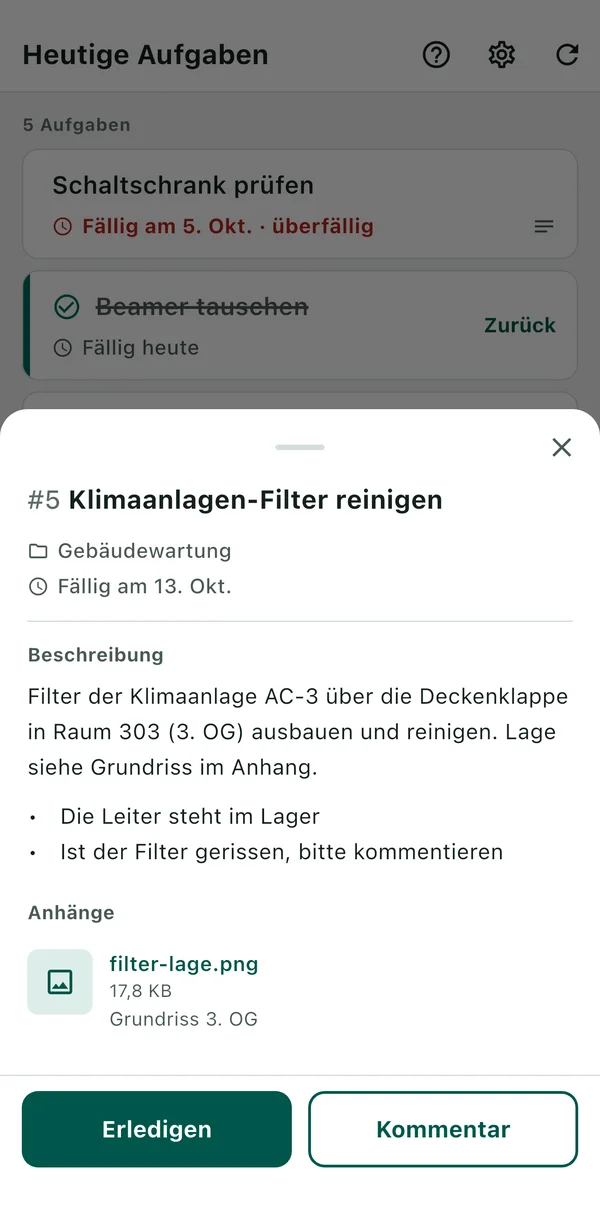
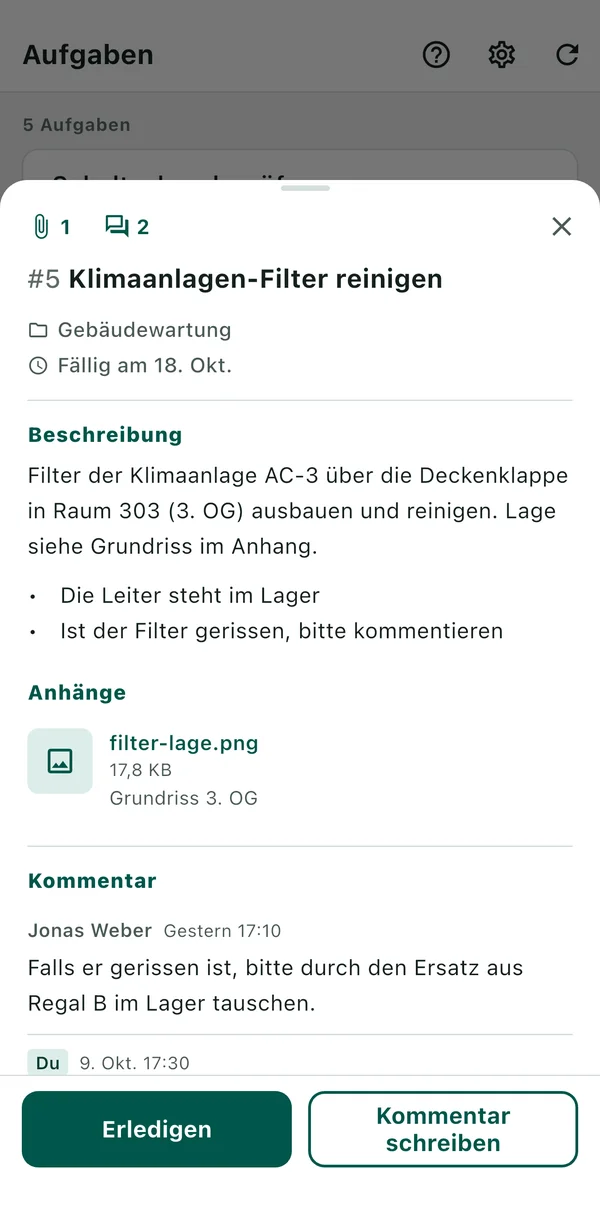
PBI-044: 1.3.0の準備（これまでのやり取りとプロジェクトの絞り込みをApp Storeへ） (#62)
* PBI-044: 1.3.0の準備（模擬・掲載文・サポート・プライバシー・繁体字の文）

* PBI-044: 03・04のスクリーンショットを6言語で撮り直し、サイトの画像と結果の記録を直す

* docs: PBI-044 のPRを記録する

* PBI-044: 模擬の確認で、審査担当者があとから書いたコメントがあっても通るようにする

* docs: PBI-044 年齢区分の答え直しと見出しの扱いの合意を記録する

---------

Changed region(s): [[0.0, 0.1244, 1.0, 0.9018], [0.63, 0.9018, 0.87, 0.964], [0.03, 0.0311, 0.45, 0.0622]]

diff --git a/fr/index.html b/fr/index.html
@@ -11,8 +11,8 @@
 <nav class="langs" aria-label="Language"><a href="../" hreflang="ja" lang="ja">日本語</a><a href="../en/" hreflang="en" lang="en">English</a><span aria-current="true" lang="fr">Français</span><a href="../de/" hreflang="de" lang="de">Deutsch</a><a href="../ko/" hreflang="ko" lang="ko">한국어</a><a href="../zh-hant/" hreflang="zh-Hant" lang="zh-Hant">繁體中文</a></nav>
 <p>Une application pour rendre compte, depuis votre iPhone et en quelques gestes, des tâches Redmine qui vous sont assignées. BeatMine n'est pas une application officielle de Redmine et n'a aucun lien avec les développeurs de Redmine.</p>
 <p><a class="button" href="https://apps.apple.com/app/id6815222410">Télécharger dans l’App Store</a></p>
-<ul class="points"><li>Seules les tâches non terminées qui vous sont assignées, à vous ou à un groupe dont vous faites partie, sont listées. Les tâches d'un groupe indiquent le nom du groupe. Les tâches en retard apparaissent en rouge.</li><li>Balayez une tâche vers la droite pour la terminer. Vous pouvez annuler aussitôt.</li><li>Touchez une tâche pour lire sa description et ses pièces jointes. Les images s'ouvrent dans l'app et peuvent être agrandies. Une icône signale les tâches qui ont une description ou des pièces jointes.</li><li>Touchez une tâche pour envoyer un commentaire. Il est conservé dans l'historique de Redmine.</li></ul>
-<div class="shots"><figure><img src="../assets/screen-01-fr.webp" width="600" height="1222" alt="La liste des tâches du jour. Les tâches en retard s&#x27;affichent en rouge."><figcaption>Tâches du jour</figcaption></figure><figure><img src="../assets/screen-02-fr.webp" width="600" height="1222" alt="L&#x27;écran qui s&#x27;ouvre quand on touche une tâche, avec sa description, ses pièces jointes et les boutons « Terminer » et « Commentaire »."><figcaption>Touchez pour voir le détail, terminer ou commenter</figcaption></figure></div>
+<ul class="points"><li>Seules les tâches non terminées qui vous sont assignées, à vous ou à un groupe dont vous faites partie, sont listées. Les tâches d'un groupe indiquent le nom du groupe. Les tâches en retard apparaissent en rouge.</li><li>Balayez une tâche vers la droite pour la terminer. Vous pouvez annuler aussitôt.</li><li>Touchez une tâche pour lire sa description et ses pièces jointes. Les images s'ouvrent dans l'app et peuvent être agrandies. Une icône signale les tâches qui ont une description ou des pièces jointes.</li><li>Touchez une tâche pour lire ses commentaires précédents, du plus récent au plus ancien. Les vôtres sont marqués « Vous ». Un point apparaît sur la ligne d'une tâche mise à jour depuis votre dernière ouverture.</li><li>« Écrire un commentaire » permet d'envoyer un commentaire tout en lisant les précédents. Il est conservé dans l'historique de Redmine.</li><li>Quand les tâches de la liste appartiennent à deux projets ou plus, l'icône « Filtrer » à côté du titre permet de filtrer la liste par projet. Les projets choisis sont conservés à la prochaine ouverture.</li></ul>
+<div class="shots"><figure><img src="../assets/screen-01-fr.webp" width="600" height="1222" alt="La liste des tâches du jour. Les tâches en retard s&#x27;affichent en rouge."><figcaption>Tâches du jour</figcaption></figure><figure><img src="../assets/screen-02-fr.webp" width="600" height="1222" alt="L&#x27;écran qui s&#x27;ouvre quand on touche une tâche, avec sa description, ses pièces jointes, les commentaires précédents et les boutons « Terminer » et « Écrire un commentaire »."><figcaption>Touchez pour voir le détail, terminer ou commenter</figcaption></figure></div>
 <nav class="toc" aria-label="Sur cette page"><a href="#need">Ce qu'il vous faut</a><a href="#start">Pour commencer</a><a href="#trouble">En cas de problème</a><a href="#faq">Autres questions fréquentes</a><a href="#unsupported">Non pris en charge</a><a href="#contact">Contact</a></nav>
 <h2 id="need">Ce qu'il vous faut</h2>
 <ul><li>Redmine 6.0, 6.1 ou 7.0.</li><li>Un accès HTTPS à ce Redmine depuis cet appareil.</li><li>L'API REST activée dans Redmine (un réglage de l'administrateur de Redmine).</li><li>Votre clé d'API. Si vous ne l'avez pas sous la main, utilisez « Obtenir la clé d'API dans Redmine » sur l'écran de connexion.</li></ul>
@@ -46,14 +46,16 @@
 <tr><td>« Impossible d'ouvrir le lien. »</td><td>Un lien de la description n'a pas pu s'ouvrir dans le navigateur de l'appareil. Le texte de la description peut être sélectionné et copié par un appui long ; collez-le dans le navigateur.</td></tr>
 </table></div>
 <p>Les messages comme « Erreur réseau » à l'ouverture d'une image ont le même sens que dans « Lors du chargement des tâches, de leur clôture ou de l'envoi d'un commentaire ». Touchez « Réessayer » pour recharger l'image.</p>
+<p>Si les commentaires précédents ne peuvent pas être chargés, « Commentaires : non chargés » s'affiche, et la section des commentaires indique la cause et « Réessayer ». Les causes sont les mêmes que dans « Lors du chargement des tâches, de leur clôture ou de l'envoi d'un commentaire ». Vous pouvez toujours terminer la tâche et envoyer des commentaires.</p>
 <h2 id="faq">Autres questions fréquentes</h2>
 <dl>
 <dt>La tâche terminée a pris un statut inattendu (par exemple « Rejeté »)</dt><dd>l'application utilise le premier statut fermé autorisé pour cette tâche, dans l'ordre des statuts de Redmine. Le statut utilisé est indiqué dans la notification. Touchez « Annuler » sur la ligne terminée (ou dans la notification) pour revenir en arrière. Ce n'est plus possible après le rechargement de la liste, ou si Redmine n'autorise pas le retour au statut précédent. Dans ce cas, rétablissez le statut dans Redmine. Si l'administrateur de Redmine change l'ordre des statuts (en plaçant « Fermé » avant « Rejeté »), un autre statut est choisi.</dd>
 <dt>Redmine m'a demandé mon mot de passe pour afficher la clé d'API (Redmine 7.0)</dt><dd>Redmine redemande le mot de passe lorsque la connexion date d'un certain temps. Saisissez-le pour afficher votre clé d'API.</dd>
+<dt>La liste montre moins de tâches que prévu</dt><dd>si le nombre de tâches indique par exemple « (2 projets sélectionnés) », la liste est filtrée par projet. Désactivez le filtre avec l'icône « Filtrer » à côté du titre. L'icône n'apparaît que lorsque les tâches de la liste appartiennent à deux projets ou plus.</dd>
 <dt>Des tâches n'apparaissent pas</dt><dd>la liste ne montre que les tâches assignées à vous ou à un groupe dont vous faites partie, non fermées et dont la date de début n'est pas dans le futur. Les tâches des projets fermés ne sont pas affichées. La liste n'est pas filtrée par échéance.</dd>
 <dt>Qui se charge d'une tâche de groupe ?</dt><dd>l'application ne le décide pas. Mettez-vous d'accord au sein du groupe, ou réassignez la tâche à une personne dans Redmine. Une tâche de groupe terminée disparaît aussi de la liste des autres membres du groupe.</dd>
 <dt>Des symboles comme « h2. » ou « * » apparaissent dans une description</dt><dd>l'application met en forme les descriptions comme du Markdown, uniquement pour les titres, listes, gras, liens et code. Les descriptions écrites en Textile, les tableaux et les images intégrées s'affichent tels quels.</dd>
-<dt>Avant de céder ou de vous séparer de votre appareil</dt><dd>« Supprimer la connexion » dans « Réglages » efface de l'appareil votre clé d'API, vos brouillons de commentaires et les traces des envois non confirmés.</dd>
+<dt>Avant de céder ou de vous séparer de votre appareil</dt><dd>« Supprimer la connexion » dans « Réglages » efface de l'appareil votre clé d'API, vos brouillons de commentaires, les traces des envois non confirmés, votre filtre par projet et la trace des tâches ouvertes.</dd>
 </dl>
 <h2 id="unsupported">Non pris en charge</h2>
 <p>Les environnements suivants peuvent fonctionner, mais n'ont pas été testés.</p>

diff --git a/index.html b/index.html
@@ -11,8 +11,8 @@
 <nav class="langs" aria-label="Language"><span aria-current="true" lang="ja">日本語</span><a href="en/" hreflang="en" lang="en">English</a><a href="fr/" hreflang="fr" lang="fr">Français</a><a href="de/" hreflang="de" lang="de">Deutsch</a><a href="ko/" hreflang="ko" lang="ko">한국어</a><a href="zh-hant/" hreflang="zh-Hant" lang="zh-Hant">繁體中文</a></nav>
 <p>自分が担当するRedmineのタスクを、iPhoneから短い操作で報告するアプリです。本アプリはRedmineの公式アプリではなく、Redmineの開発者とは関係ありません。</p>
 <p><a class="button" href="https://apps.apple.com/app/id6815222410">App Storeからダウンロード</a></p>
-<ul class="points"><li>自分か、自分が入っているグループが担当する、まだ終わっていないタスクだけが並ぶ。グループの担当には、グループ名が出る。期限を過ぎたものは赤で出る。</li><li>行を右へスワイプすると完了。すぐ取り消せる。</li><li>行をタップすると、タスクの説明と添付ファイルを読める。画像はアプリの中で開いて拡大できる。説明や添付があるタスクには、行に印が出る。</li><li>行をタップすると、コメントも送れる。内容はRedmineの履歴に残る。</li></ul>
-<div class="shots"><figure><img src="assets/screen-01.webp" width="600" height="1222" alt="今日のタスクの一覧。期限を過ぎたタスクは赤で出る"><figcaption>今日のタスク</figcaption></figure><figure><img src="assets/screen-02.webp" width="600" height="1222" alt="タスクをタップして出る画面。説明と添付ファイル、「完了」と「コメント」のボタンがある"><figcaption>タップで作業内容・完了・コメント</figcaption></figure></div>
+<ul class="points"><li>自分か、自分が入っているグループが担当する、まだ終わっていないタスクだけが並ぶ。グループの担当には、グループ名が出る。期限を過ぎたものは赤で出る。</li><li>行を右へスワイプすると完了。すぐ取り消せる。</li><li>行をタップすると、タスクの説明と添付ファイルを読める。画像はアプリの中で開いて拡大できる。説明や添付があるタスクには、行に印が出る。</li><li>行をタップすると、これまでのコメントを新しい順に読める。自分が書いたものには「自分」と出る。前に開いたあとで更新されたタスクには、行に点が出る。</li><li>「コメントを書く」で、これまでのコメントを読みながらコメントを送れる。内容はRedmineの履歴に残る。</li><li>一覧のタスクが2つ以上のプロジェクトにまたがるときは、タイトルの横の「絞り込み」のアイコンから、プロジェクトで一覧を絞り込める。選んだプロジェクトは、次に開いたときも残る。</li></ul>
+<div class="shots"><figure><img src="assets/screen-01.webp" width="600" height="1222" alt="今日のタスクの一覧。期限を過ぎたタスクは赤で出る"><figcaption>今日のタスク</figcaption></figure><figure><img src="assets/screen-02.webp" width="600" height="1222" alt="タスクをタップして出る画面。説明と添付ファイル、これまでのコメント、「完了」と「コメントを書く」のボタンがある"><figcaption>タップで作業内容・完了・コメント</figcaption></figure></div>
 <nav class="toc" aria-label="このページの内容"><a href="#need">必要なもの</a><a href="#start">使い始める</a><a href="#trouble">つまずいたとき</a><a href="#faq">よくあること</a><a href="#unsupported">対応していないもの</a><a href="#contact">お問い合わせ</a></nav>
 <h2 id="need">使い始めるために必要なもの</h2>
 <ul><li>Redmine 6.0・6.1・7.0のどれか。</li><li>そのRedmineを、この端末からHTTPSで開けること。</li><li>RedmineでREST APIが有効になっていること（Redmineの管理者の設定）。</li><li>自分のAPIキー。手元になければ、接続の画面の「APIキーをRedmineで取得」から取れる。</li></ul>
@@ -46,14 +46,16 @@
 <tr><td>「リンクを開けませんでした。」</td><td>説明の中のリンクを、端末のブラウザで開けなかった。説明の文は長押しで選んでコピーできるので、ブラウザに貼り付けて開く。</td></tr>
 </table></div>
 <p>画像を開くときの「ネットワークエラー」などは、上の「読み込み・完了・コメントのとき」と同じ。「再試行」で取り直せる。</p>
+<p>これまでのコメントを読み込めないときは、「コメント 読み込めません」と出て、コメントの欄に原因の文と「再試行」が出る。原因の文は、上の「読み込み・完了・コメントのとき」と同じ。完了とコメントの送信は、そのまま使える。</p>
 <h2 id="faq">そのほか、よくあること</h2>
 <dl>
 <dt>完了したら、意図しない状態（「却下」など）になった</dt><dd>そのタスクで変更できる終了扱いの状態のうち、Redmineの状態の並び順で最初のものを使います。どの状態にしたかは、完了の通知に出ます。完了した行の「戻す」（または完了の通知の「取り消す」）で元に戻せます。ただし、一覧を再読み込みした後や、Redmineで元の状態へ戻す変更が許されていないときは取り消せません。そのときは、Redmineの画面から戻してください。Redmineの管理者が状態の並び順を変える（「完了」を「却下」より上にする）と、選ばれる状態が変わります。</dd>
 <dt>APIキーを取るときにパスワードを聞かれた（Redmine 7.0）</dt><dd>ログインしてから時間がたつと、Redmineがパスワードの再入力を求めます。入力すればAPIキーが表示されます。</dd>
+<dt>一覧のタスクが少ない</dt><dd>件数の行に「（2プロジェクト選択中）」のように出ていれば、プロジェクトで絞り込んでいます。タイトルの横の「絞り込み」のアイコンから外せます。アイコンは、一覧のタスクが2つ以上のプロジェクトにまたがるときだけ出ます。</dd>
 <dt>一覧に出ないタスクがある</dt><dd>自分か、自分が入っているグループが担当で、まだ完了しておらず、開始日が未来でないタスクだけを出しています。終了したプロジェクトのタスクも出しません。期限では絞っていません。</dd>
 <dt>グループのタスクを誰がやるか</dt><dd>アプリでは決めません。グループの中で声をかけるか、Redmineで担当を個人に付け替えてください。グループのタスクを完了すると、同じグループのほかの人の一覧からも消えます。</dd>
 <dt>説明に「h2.」「*」などの記号が出る</dt><dd>アプリは説明をMarkdownとして、見出し・箇条書き・太字・リンク・コードだけを整えます。Textileで書く組織のRedmineや、表・埋め込みの画像は、記号のまま出ます。</dd>
-<dt>端末を手放すとき</dt><dd>設定の「接続を削除」で、APIキー・コメントの下書き・未確認の送信の記録が端末から消えます。</dd>
+<dt>端末を手放すとき</dt><dd>設定の「接続を削除」で、APIキー・コメントの下書き・未確認の送信の記録・プロジェクトの絞り込み・開いたタスクの記録が端末から消えます。</dd>
 </dl>
 <h2 id="unsupported">対応していないもの</h2>
 <p>次の環境は、動くことはあっても確かめていません。</p>

diff --git a/ko/index.html b/ko/index.html
@@ -11,8 +11,8 @@
 <nav class="langs" aria-label="Language"><a href="../" hreflang="ja" lang="ja">日本語</a><a href="../en/" hreflang="en" lang="en">English</a><a href="../fr/" hreflang="fr" lang="fr">Français</a><a href="../de/" hreflang="de" lang="de">Deutsch</a><span aria-current="true" lang="ko">한국어</span><a href="../zh-hant/" hreflang="zh-Hant" lang="zh-Hant">繁體中文</a></nav>
 <p>내게 배정된 Redmine 작업을 iPhone에서 간단한 조작으로 보고하는 앱입니다. BeatMine은 Redmine 공식 앱이 아니며, Redmine 개발자와 관련이 없습니다.</p>
 <p><a class="button" href="https://apps.apple.com/app/id6815222410">App Store에서 다운로드하기</a></p>
-<ul class="points"><li>나 또는 내가 속한 그룹이 담당하는, 아직 끝나지 않은 작업만 표시됩니다. 그룹 담당 작업에는 그룹 이름이 표시됩니다. 기한이 지난 작업은 빨간색으로 표시됩니다.</li><li>작업을 오른쪽으로 밀면 완료됩니다. 바로 되돌릴 수 있습니다.</li><li>작업을 탭하면 작업의 설명과 첨부 파일을 읽을 수 있습니다. 이미지는 앱에서 열어 확대할 수 있습니다. 설명이나 첨부가 있는 작업에는 줄에 표시가 나옵니다.</li><li>작업을 탭하면 댓글도 보낼 수 있습니다. 내용은 Redmine 이력에 남습니다.</li></ul>
-<div class="shots"><figure><img src="../assets/screen-01-ko.webp" width="600" height="1222" alt="오늘의 작업 목록. 기한이 지난 작업은 빨간색으로 표시됩니다."><figcaption>오늘의 작업</figcaption></figure><figure><img src="../assets/screen-02-ko.webp" width="600" height="1222" alt="작업을 탭하면 나타나는 화면. 설명과 첨부 파일, ‘완료’와 ‘댓글’ 버튼이 있습니다."><figcaption>탭하여 내용 확인·완료·댓글</figcaption></figure></div>
+<ul class="points"><li>나 또는 내가 속한 그룹이 담당하는, 아직 끝나지 않은 작업만 표시됩니다. 그룹 담당 작업에는 그룹 이름이 표시됩니다. 기한이 지난 작업은 빨간색으로 표시됩니다.</li><li>작업을 오른쪽으로 밀면 완료됩니다. 바로 되돌릴 수 있습니다.</li><li>작업을 탭하면 작업의 설명과 첨부 파일을 읽을 수 있습니다. 이미지는 앱에서 열어 확대할 수 있습니다. 설명이나 첨부가 있는 작업에는 줄에 표시가 나옵니다.</li><li>작업을 탭하면 지금까지의 댓글을 최신순으로 읽을 수 있습니다. 내가 쓴 댓글에는 ‘나’라고 표시됩니다. 지난번에 연 뒤 업데이트된 작업에는 줄에 점이 표시됩니다.</li><li>‘댓글 쓰기’로 이전 댓글을 읽으면서 댓글을 보낼 수 있습니다. 내용은 Redmine 이력에 남습니다.</li><li>목록의 작업이 두 개 이상의 프로젝트에 걸쳐 있으면, 제목 옆의 ‘필터’ 아이콘으로 프로젝트별로 목록을 필터링할 수 있습니다. 선택한 프로젝트는 다음에 열 때도 유지됩니다.</li></ul>
+<div class="shots"><figure><img src="../assets/screen-01-ko.webp" width="600" height="1222" alt="오늘의 작업 목록. 기한이 지난 작업은 빨간색으로 표시됩니다."><figcaption>오늘의 작업</figcaption></figure><figure><img src="../assets/screen-02-ko.webp" width="600" height="1222" alt="작업을 탭하면 나타나는 화면. 설명과 첨부 파일, 지금까지의 댓글, ‘완료’와 ‘댓글 쓰기’ 버튼이 있습니다."><figcaption>탭하여 내용 확인·완료·댓글</figcaption></figure></div>
 <nav class="toc" aria-label="이 페이지의 내용"><a href="#need">필요한 것</a><a href="#start">시작하기</a><a href="#trouble">문제가 생겼을 때</a><a href="#faq">그 밖의 자주 묻는 질문</a><a href="#unsupported">지원하지 않는 것</a><a href="#contact">문의</a></nav>
 <h2 id="need">필요한 것</h2>
 <ul><li>Redmine 6.0·6.1·7.0 중 하나.</li><li>이 기기에서 해당 Redmine을 HTTPS로 열 수 있을 것.</li><li>Redmine에서 REST API가 활성화되어 있을 것(Redmine 관리자의 설정).</li><li>내 API 키. 없으면 연결 화면의 ‘Redmine에서 API 키 받기’에서 받을 수 있습니다.</li></ul>
@@ -46,14 +46,16 @@
 <tr><td>‘링크를 열 수 없습니다.’</td><td>설명 속 링크를 기기의 브라우저에서 열지 못했습니다. 설명의 글은 길게 눌러 선택하고 복사할 수 있으니, 브라우저에 붙여 넣어 여세요.</td></tr>
 </table></div>
 <p>이미지를 열 때의 ‘네트워크 오류’ 등은 위의 ‘불러오기·완료·댓글을 할 때’와 같습니다. ‘다시 시도’로 다시 불러올 수 있습니다.</p>
+<p>이전 댓글을 불러오지 못하면 ‘댓글: 불러오지 못함’이 표시되고, 댓글 영역에 원인 문구와 ‘다시 시도’가 나옵니다. 원인 문구는 위의 ‘불러오기·완료·댓글을 할 때’와 같습니다. 완료와 댓글 보내기는 그대로 사용할 수 있습니다.</p>
 <h2 id="faq">그 밖의 자주 묻는 질문</h2>
 <dl>
 <dt>완료했더니 의도하지 않은 상태(‘거절’ 등)가 되었다</dt><dd>그 작업에서 변경할 수 있는 종료 상태 중, Redmine의 상태 순서에서 첫 번째 것을 사용합니다. 어떤 상태로 했는지는 완료 알림에 표시됩니다. 완료한 줄의 ‘되돌리기’(또는 완료 알림의 ‘취소’)로 되돌릴 수 있습니다. 다만 목록을 새로고침한 뒤나, Redmine에서 원래 상태로 되돌리는 변경이 허용되지 않을 때는 되돌릴 수 없습니다. 그때는 Redmine 화면에서 되돌리세요. Redmine 관리자가 상태 순서를 바꾸면(‘완료’를 ‘거절’보다 위로) 선택되는 상태가 바뀝니다.</dd>
 <dt>API 키를 받을 때 비밀번호 입력을 요구받았다(Redmine 7.0)</dt><dd>로그인 후 시간이 지나면 Redmine이 비밀번호 재입력을 요청합니다. 입력하면 API 키가 표시됩니다.</dd>
+<dt>목록의 작업이 예상보다 적다</dt><dd>건수 줄에 ‘(2개 프로젝트 선택됨)’처럼 나오면 프로젝트로 필터링 중입니다. 제목 옆의 ‘필터’ 아이콘에서 해제할 수 있습니다. 아이콘은 목록의 작업이 두 개 이상의 프로젝트에 걸쳐 있을 때만 나옵니다.</dd>
 <dt>목록에 나오지 않는 작업이 있다</dt><dd>나 또는 내가 속한 그룹에 할당되어 있고, 아직 완료되지 않았으며, 시작일이 미래가 아닌 작업만 표시합니다. 종료된 프로젝트의 작업도 표시하지 않습니다. 기한으로는 거르지 않습니다.</dd>
 <dt>그룹의 작업은 누가 하나요</dt><dd>앱에서는 정하지 않습니다. 그룹 안에서 이야기하거나, Redmine에서 담당자를 개인으로 바꾸세요. 그룹의 작업을 완료하면 같은 그룹의 다른 사람 목록에서도 사라집니다.</dd>
 <dt>설명에 ‘h2.’, ‘*’ 같은 기호가 나온다</dt><dd>앱은 설명을 Markdown으로 보고, 제목·목록·굵은 글씨·링크·코드만 정리합니다. Textile로 쓰는 조직의 Redmine이나 표·삽입된 이미지는 기호 그대로 나옵니다.</dd>
-<dt>기기를 다른 사람에게 넘기거나 처분할 때</dt><dd>‘설정’의 ‘연결 삭제’로 API 키·댓글 임시 저장본·확인되지 않은 전송 기록이 기기에서 삭제됩니다.</dd>
+<dt>기기를 다른 사람에게 넘기거나 처분할 때</dt><dd>‘설정’의 ‘연결 삭제’로 API 키·댓글 임시 저장본·확인되지 않은 전송 기록·프로젝트 필터·연 작업의 기록이 기기에서 삭제됩니다.</dd>
 </dl>
 <h2 id="unsupported">지원하지 않는 것</h2>
 <p>다음 환경은 동작할 수도 있지만 확인하지 않았습니다.</p>

diff --git a/de/index.html b/de/index.html
@@ -11,8 +11,8 @@
 <nav class="langs" aria-label="Language"><a href="../" hreflang="ja" lang="ja">日本語</a><a href="../en/" hreflang="en" lang="en">English</a><a href="../fr/" hreflang="fr" lang="fr">Français</a><span aria-current="true" lang="de">Deutsch</span><a href="../ko/" hreflang="ko" lang="ko">한국어</a><a href="../zh-hant/" hreflang="zh-Hant" lang="zh-Hant">繁體中文</a></nav>
 <p>Eine App, mit der Sie die Ihnen zugewiesenen Redmine-Aufgaben mit wenigen Handgriffen vom iPhone aus melden. BeatMine ist keine offizielle Redmine-App und steht in keiner Verbindung zu den Redmine-Entwicklern.</p>
 <p><a class="button" href="https://apps.apple.com/app/id6815222410">Laden im App Store</a></p>
-<ul class="points"><li>Es werden nur offene Aufgaben angezeigt, die Ihnen oder einer Ihrer Gruppen zugewiesen sind. Bei Gruppenaufgaben steht der Gruppenname dabei. Überfällige Aufgaben erscheinen rot.</li><li>Wischen Sie eine Aufgabe nach rechts, um sie zu erledigen. Sie können das sofort rückgängig machen.</li><li>Tippen Sie auf eine Aufgabe, um Beschreibung und Anhänge zu lesen. Bilder öffnen sich in der App und lassen sich vergrößern. Aufgaben mit Beschreibung oder Anhängen tragen ein Symbol in der Zeile.</li><li>Tippen Sie auf eine Aufgabe, um einen Kommentar zu senden. Er wird in der Redmine-Historie gespeichert.</li></ul>
-<div class="shots"><figure><img src="../assets/screen-01-de.webp" width="600" height="1222" alt="Die Liste der heutigen Aufgaben. Überfällige Aufgaben werden rot angezeigt."><figcaption>Heutige Aufgaben</figcaption></figure><figure><img src="../assets/screen-02-de.webp" width="600" height="1222" alt="Der Bildschirm, der sich beim Antippen einer Aufgabe öffnet, mit Beschreibung, Anhängen und den Schaltflächen „Erledigen“ und „Kommentar“."><figcaption>Antippen für Details, Erledigen oder Kommentieren</figcaption></figure></div>
+<ul class="points"><li>Es werden nur offene Aufgaben angezeigt, die Ihnen oder einer Ihrer Gruppen zugewiesen sind. Bei Gruppenaufgaben steht der Gruppenname dabei. Überfällige Aufgaben erscheinen rot.</li><li>Wischen Sie eine Aufgabe nach rechts, um sie zu erledigen. Sie können das sofort rückgängig machen.</li><li>Tippen Sie auf eine Aufgabe, um Beschreibung und Anhänge zu lesen. Bilder öffnen sich in der App und lassen sich vergrößern. Aufgaben mit Beschreibung oder Anhängen tragen ein Symbol in der Zeile.</li><li>Tippen Sie auf eine Aufgabe, um ihre früheren Kommentare zu lesen, die neuesten zuerst. Ihre eigenen sind mit „Du“ gekennzeichnet. Ein Punkt erscheint in der Zeile einer Aufgabe, die seit dem letzten Öffnen aktualisiert wurde.</li><li>Mit „Kommentar schreiben“ senden Sie einen Kommentar, während Sie die früheren lesen. Er wird in der Redmine-Historie gespeichert.</li><li>Gehören die Aufgaben der Liste zu zwei oder mehr Projekten, können Sie die Liste über das Symbol „Filtern“ neben dem Titel nach Projekt filtern. Die gewählten Projekte bleiben beim nächsten Öffnen erhalten.</li></ul>
+<div class="shots"><figure><img src="../assets/screen-01-de.webp" width="600" height="1222" alt="Die Liste der heutigen Aufgaben. Überfällige Aufgaben werden rot angezeigt."><figcaption>Heutige Aufgaben</figcaption></figure><figure><img src="../assets/screen-02-de.webp" width="600" height="1222" alt="Der Bildschirm, der sich beim Antippen einer Aufgabe öffnet, mit Beschreibung, Anhängen, früheren Kommentaren und den Schaltflächen „Erledigen“ und „Kommentar schreiben“."><figcaption>Antippen für Details, Erledigen oder Kommentieren</figcaption></figure></div>
 <nav class="toc" aria-label="Auf dieser Seite"><a href="#need">Was Sie brauchen</a><a href="#start">Erste Schritte</a><a href="#trouble">Wenn etwas nicht klappt</a><a href="#faq">Weitere häufige Fragen</a><a href="#unsupported">Nicht unterstützt</a><a href="#contact">Kontakt</a></nav>
 <h2 id="need">Was Sie brauchen</h2>
 <ul><li>Redmine 6.0, 6.1 oder 7.0.</li><li>HTTPS-Zugriff auf dieses Redmine von diesem Gerät aus.</li><li>Eine in Redmine aktivierte REST-API (eine Einstellung Ihres Redmine-Administrators).</li><li>Ihr API-Schlüssel. Falls Sie ihn nicht zur Hand haben, nutzen Sie „API-Schlüssel in Redmine abrufen“ auf dem Verbindungsbildschirm.</li></ul>
@@ -46,14 +46,16 @@
 <tr><td>„Der Link konnte nicht geöffnet werden.“</td><td>Ein Link in der Beschreibung ließ sich im Browser des Geräts nicht öffnen. Den Text der Beschreibung können Sie lange drücken, markieren und kopieren und dann im Browser einfügen.</td></tr>
 </table></div>
 <p>Meldungen wie „Netzwerkfehler“ beim Öffnen eines Bildes bedeuten dasselbe wie unter „Beim Laden, Erledigen oder Kommentieren“. Mit „Erneut versuchen“ wird das Bild neu geladen.</p>
+<p>Lassen sich frühere Kommentare nicht laden, erscheint „Kommentare: nicht geladen“, und im Kommentarbereich stehen der Grund und „Erneut versuchen“. Die Gründe sind dieselben wie unter „Beim Laden, Erledigen oder Kommentieren“. Erledigen und Kommentieren funktionieren weiterhin.</p>
 <h2 id="faq">Weitere häufige Fragen</h2>
 <dl>
 <dt>Beim Erledigen wurde ein unerwarteter Status gesetzt (z. B. „Abgewiesen“)</dt><dd>Die App verwendet den ersten geschlossenen Status, den Sie für diese Aufgabe setzen dürfen, in der Statusreihenfolge von Redmine. Der verwendete Status steht in der Benachrichtigung. Mit „Zurück“ in der erledigten Zeile (oder „Rückgängig“ in der Benachrichtigung) machen Sie das rückgängig. Nach dem Neuladen der Liste oder wenn Redmine das Zurücksetzen des Status nicht erlaubt, ist das nicht mehr möglich. Setzen Sie den Status dann in Redmine zurück. Ändert Ihr Redmine-Administrator die Statusreihenfolge („Erledigt“ vor „Abgewiesen“), wird ein anderer Status gewählt.</dd>
 <dt>Beim Abrufen des API-Schlüssels wurde mein Passwort abgefragt (Redmine 7.0)</dt><dd>Redmine fragt einige Zeit nach der Anmeldung erneut nach dem Passwort. Geben Sie es ein, um den API-Schlüssel zu sehen.</dd>
+<dt>Die Liste zeigt weniger Aufgaben als erwartet</dt><dd>Steht bei der Anzahl etwa „(2 Projekte ausgewählt)“, ist die Liste nach Projekt gefiltert. Schalten Sie den Filter über das Symbol „Filtern“ neben dem Titel aus. Das Symbol erscheint nur, wenn die Aufgaben der Liste zu zwei oder mehr Projekten gehören.</dd>
 <dt>Manche Aufgaben fehlen in der Liste</dt><dd>Angezeigt werden nur Aufgaben, die Ihnen oder einer Ihrer Gruppen zugewiesen und nicht geschlossen sind und deren Startdatum nicht in der Zukunft liegt. Aufgaben abgeschlossener Projekte werden nicht angezeigt. Nach Fälligkeit wird nicht gefiltert.</dd>
 <dt>Wer erledigt eine Gruppenaufgabe?</dt><dd>Das entscheidet die App nicht. Sprechen Sie sich in der Gruppe ab oder weisen Sie die Aufgabe in Redmine einer Person zu. Wird eine Gruppenaufgabe erledigt, verschwindet sie auch aus der Liste der anderen Gruppenmitglieder.</dd>
 <dt>In einer Beschreibung erscheinen Zeichen wie „h2.“ oder „*“</dt><dd>Die App formatiert Beschreibungen als Markdown, und zwar nur Überschriften, Listen, Fettdruck, Links und Code. In Textile geschriebene Beschreibungen, Tabellen und eingebettete Bilder werden als reiner Text angezeigt.</dd>
-<dt>Bevor Sie Ihr Gerät weitergeben</dt><dd>„Verbindung löschen“ unter „Einstellungen“ löscht API-Schlüssel, Kommentarentwürfe und Aufzeichnungen unbestätigter Vorgänge vom Gerät.</dd>
+<dt>Bevor Sie Ihr Gerät weitergeben</dt><dd>„Verbindung löschen“ unter „Einstellungen“ löscht API-Schlüssel, Kommentarentwürfe, Aufzeichnungen unbestätigter Vorgänge, den Projektfilter und die Aufzeichnung geöffneter Aufgaben vom Gerät.</dd>
 </dl>
 <h2 id="unsupported">Nicht unterstützt</h2>
 <p>Folgendes kann funktionieren, wurde aber nicht getestet.</p>

diff --git a/en/index.html b/en/index.html
@@ -11,8 +11,8 @@
 <nav class="langs" aria-label="Language"><a href="../" hreflang="ja" lang="ja">日本語</a><span aria-current="true" lang="en">English</span><a href="../fr/" hreflang="fr" lang="fr">Français</a><a href="../de/" hreflang="de" lang="de">Deutsch</a><a href="../ko/" hreflang="ko" lang="ko">한국어</a><a href="../zh-hant/" hreflang="zh-Hant" lang="zh-Hant">繁體中文</a></nav>
 <p>An app for reporting on the Redmine tasks assigned to you from your iPhone, in just a few taps. BeatMine is not an official Redmine app and is not affiliated with the Redmine developers.</p>
 <p><a class="button" href="https://apps.apple.com/app/id6815222410">Download on the App Store</a></p>
-<ul class="points"><li>Only unfinished tasks assigned to you, or to a group you belong to, are listed. Tasks assigned to a group show the group name. Overdue tasks are shown in red.</li><li>Swipe a task right to complete it. You can undo it right away.</li><li>Tap a task to read its description and attachments. Images open in the app and can be zoomed. Tasks with a description or attachments show an icon on their row.</li><li>Tap a task to send a comment. It is saved in the Redmine history.</li></ul>
-<div class="shots"><figure><img src="../assets/screen-01-en.webp" width="600" height="1222" alt="The list of today&#x27;s tasks. Overdue tasks are shown in red."><figcaption>Today's tasks</figcaption></figure><figure><img src="../assets/screen-02-en.webp" width="600" height="1222" alt="The screen that opens when you tap a task, with its description and attachments, and “Complete” and “Comment” buttons."><figcaption>Tap to see details, complete or comment</figcaption></figure></div>
+<ul class="points"><li>Only unfinished tasks assigned to you, or to a group you belong to, are listed. Tasks assigned to a group show the group name. Overdue tasks are shown in red.</li><li>Swipe a task right to complete it. You can undo it right away.</li><li>Tap a task to read its description and attachments. Images open in the app and can be zoomed. Tasks with a description or attachments show an icon on their row.</li><li>Tap a task to read its earlier comments, newest first. Comments you wrote are shown as “You”. A dot appears on the row of a task that was updated since you last opened it.</li><li>“Write comment” lets you send a comment while reading the earlier ones. It is saved in the Redmine history.</li><li>When the listed tasks belong to two or more projects, the “Filter” icon next to the title lets you filter the list by project. The projects you choose are kept the next time you open the app.</li></ul>
+<div class="shots"><figure><img src="../assets/screen-01-en.webp" width="600" height="1222" alt="The list of today&#x27;s tasks. Overdue tasks are shown in red."><figcaption>Today's tasks</figcaption></figure><figure><img src="../assets/screen-02-en.webp" width="600" height="1222" alt="The screen that opens when you tap a task, with its description, attachments and earlier comments, and “Complete” and “Write comment” buttons."><figcaption>Tap to see details, complete or comment</figcaption></figure></div>
 <nav class="toc" aria-label="On this page"><a href="#need">What you need</a><a href="#start">Getting started</a><a href="#trouble">If something goes wrong</a><a href="#faq">Other common questions</a><a href="#unsupported">Not supported</a><a href="#contact">Contact</a></nav>
 <h2 id="need">What you need</h2>
 <ul><li>Redmine 6.0, 6.1 or 7.0.</li><li>You can open that Redmine over HTTPS from this device.</li><li>The REST API is enabled in Redmine (a setting for your Redmine administrator).</li><li>Your API key. If you don't have it at hand, use “Get the API key in Redmine” on the connection screen.</li></ul>
@@ -46,14 +46,16 @@
 <tr><td>“Couldn't open the link.”</td><td>A link in the description couldn't be opened in the device's browser. You can select and copy the description text with a long press, then paste it into the browser.</td></tr>
 </table></div>
 <p>Messages such as “Network error” when opening an image mean the same as under “When loading, completing or commenting”. Tap “Try again” to load it again.</p>
+<p>If earlier comments can't be loaded, “Comments: couldn't load” appears, and the comments section shows the reason and “Try again”. The reasons are the same as under “When loading, completing or commenting”. You can still complete the task and send comments.</p>
 <h2 id="faq">Other common questions</h2>
 <dl>
 <dt>A completed task got an unexpected status (such as “Rejected”)</dt><dd>The app uses the first closed status you're allowed to set for that task, in Redmine's status order. The status used is shown in the completion notice. Tap “Undo” on the completed task (or in the notice) to revert it. You can't undo after reloading the list, or if Redmine doesn't allow changing the status back. In that case, change it back in Redmine. If your Redmine administrator changes the status order (putting “Closed” above “Rejected”), a different status is chosen.</dd>
 <dt>I was asked for my password when getting the API key (Redmine 7.0)</dt><dd>Redmine asks for your password again some time after you sign in. Enter it to see your API key.</dd>
+<dt>The list shows fewer tasks than expected</dt><dd>If the task count says something like “(2 projects selected)”, the list is filtered by project. Turn it off with the “Filter” icon next to the title. The icon appears only when the listed tasks belong to two or more projects.</dd>
 <dt>Some tasks are missing from the list</dt><dd>The list shows only tasks assigned to you, or to a group you belong to, that are not closed and whose start date is not in the future. Tasks in closed projects are not shown. The list is not filtered by due date.</dd>
 <dt>Who does a group's task?</dt><dd>The app doesn't decide. Talk it over within the group, or reassign the task to a person in Redmine. When a group's task is completed, it also disappears from the lists of the other people in the group.</dd>
 <dt>Symbols such as “h2.” or “*” appear in a description</dt><dd>The app formats descriptions as Markdown, handling only headings, lists, bold text, links and code. Descriptions written in Textile, tables and embedded images are shown as plain text.</dd>
-<dt>Before passing on or disposing of your device</dt><dd>“Delete connection” in “Settings” removes your API key, comment drafts and records of unconfirmed updates from the device.</dd>
+<dt>Before passing on or disposing of your device</dt><dd>“Delete connection” in “Settings” removes your API key, comment drafts, records of unconfirmed updates, your project filter and the record of tasks you opened from the device.</dd>
 </dl>
 <h2 id="unsupported">Not supported</h2>
 <p>The following may work, but have not been tested.</p>

diff --git a/zh-hant/index.html b/zh-hant/index.html
@@ -11,8 +11,8 @@
 <nav class="langs" aria-label="Language"><a href="../" hreflang="ja" lang="ja">日本語</a><a href="../en/" hreflang="en" lang="en">English</a><a href="../fr/" hreflang="fr" lang="fr">Français</a><a href="../de/" hreflang="de" lang="de">Deutsch</a><a href="../ko/" hreflang="ko" lang="ko">한국어</a><span aria-current="true" lang="zh-Hant">繁體中文</span></nav>
 <p>讓你在 iPhone 上用簡單的操作回報指派給自己的 Redmine 任務的 App。BeatMine 並非 Redmine 官方 App，與 Redmine 開發者無關。</p>
 <p><a class="button" href="https://apps.apple.com/app/id6815222410">在 App Store 下載</a></p>
-<ul class="points"><li>只列出由自己或自己所屬群組負責、尚未完成的任務。群組負責的任務會顯示群組名稱。超過期限的任務以紅色顯示。</li><li>將任務向右滑動即可完成，也能馬上取消。</li><li>點一下任務，就能閱讀任務的描述與附件。圖片可以在 App 中開啟並放大。有描述或附件的任務，項目上會顯示圖示。</li><li>點一下任務即可傳送留言，內容會記錄在 Redmine 的歷史中。</li></ul>
-<div class="shots"><figure><img src="../assets/screen-01-zh-hant.webp" width="600" height="1222" alt="今日任務的清單。逾期的任務以紅色顯示。"><figcaption>今日任務</figcaption></figure><figure><img src="../assets/screen-02-zh-hant.webp" width="600" height="1222" alt="點一下任務後出現的畫面，有描述與附件，以及「完成」與「留言」按鈕。"><figcaption>點一下即可查看內容、完成或留言</figcaption></figure></div>
+<ul class="points"><li>只列出由自己或自己所屬群組負責、尚未完成的任務。群組負責的任務會顯示群組名稱。超過期限的任務以紅色顯示。</li><li>將任務向右滑動即可完成，也能馬上取消。</li><li>點一下任務，就能閱讀任務的描述與附件。圖片可以在 App 中開啟並放大。有描述或附件的任務，項目上會顯示圖示。</li><li>點一下任務，就能依新到舊閱讀之前的留言。自己寫的留言會顯示為「我」。上次開啟後有更新的任務，項目上會出現一個點。</li><li>點「寫留言」，就能一邊閱讀之前的留言一邊傳送留言，內容會記錄在 Redmine 的歷史中。</li><li>清單中的任務分屬兩個以上的專案時，可以用標題旁的「篩選」圖示依專案篩選清單。選擇的專案在下次開啟時也會保留。</li></ul>
+<div class="shots"><figure><img src="../assets/screen-01-zh-hant.webp" width="600" height="1222" alt="今日任務的清單。逾期的任務以紅色顯示。"><figcaption>今日任務</figcaption></figure><figure><img src="../assets/screen-02-zh-hant.webp" width="600" height="1222" alt="點一下任務後出現的畫面，有描述、附件與之前的留言，以及「完成」與「寫留言」按鈕。"><figcaption>點一下即可查看內容、完成或留言</figcaption></figure></div>
 <nav class="toc" aria-label="本頁內容"><a href="#need">需要準備的東西</a><a href="#start">開始使用</a><a href="#trouble">遇到問題時</a><a href="#faq">其他常見問題</a><a href="#unsupported">不支援的項目</a><a href="#contact">聯絡我們</a></nav>
 <h2 id="need">需要準備的東西</h2>
 <ul><li>Redmine 6.0、6.1、7.0 其中之一。</li><li>能從這台裝置以 HTTPS 開啟該 Redmine。</li><li>Redmine 已啟用 REST API（由 Redmine 管理員設定）。</li><li>自己的 API 金鑰。手邊沒有的話，可以從連線畫面的「在 Redmine 取得 API 金鑰」取得。</li></ul>
@@ -46,14 +46,16 @@
 <tr><td>「無法開啟連結。」</td><td>無法在裝置的瀏覽器中開啟描述裡的連結。描述的文字可以長按選取並複製，請貼到瀏覽器中開啟。</td></tr>
 </table></div>
 <p>開啟圖片時出現的「網路錯誤」等訊息，與上面「載入、完成、留言時」相同。點「重試」即可重新載入。</p>
+<p>無法載入之前的留言時，會顯示「留言：無法載入」，留言區會顯示原因與「重試」。原因的訊息與上面「載入、完成、留言時」相同。完成與傳送留言仍可照常使用。</p>
 <h2 id="faq">其他常見問題</h2>
 <dl>
 <dt>完成後變成了非預期的狀態（例如「已拒絕」）</dt><dd>會使用該任務可變更的結束狀態中，依 Redmine 狀態排序的第一個。設為哪個狀態會顯示在完成通知中。可以用已完成項目的「復原」（或完成通知的「取消」）恢復原狀。但重新載入清單之後，或 Redmine 不允許改回原本狀態時，就無法取消。這時請在 Redmine 的畫面上改回。Redmine 管理員變更狀態排序（把「已結束」排在「已拒絕」之前）後，選用的狀態就會改變。</dd>
 <dt>取得 API 金鑰時要求輸入密碼（Redmine 7.0）</dt><dd>登入一段時間後，Redmine 會要求重新輸入密碼。輸入後就會顯示 API 金鑰。</dd>
+<dt>清單中的任務比預期少</dt><dd>如果項數那一行顯示「（已選 2 個專案）」之類的文字，表示正在依專案篩選。可以從標題旁的「篩選」圖示取消。只有清單中的任務分屬兩個以上的專案時，才會出現這個圖示。</dd>
 <dt>清單中有些任務沒有出現</dt><dd>只顯示由自己或自己所屬群組負責、尚未結束，且開始日期不在未來的任務。已結束專案的任務也不會顯示。不依期限篩選。</dd>
 <dt>群組的任務由誰來做</dt><dd>App 不會決定。請在群組內互相聯繫，或在 Redmine 把負責人改為個人。群組的任務完成後，也會從同群組其他人的清單中消失。</dd>
 <dt>描述中出現「h2.」「*」等符號</dt><dd>App 會把描述當作 Markdown，只整理標題、清單、粗體、連結與程式碼。以 Textile 撰寫描述的組織的 Redmine，以及表格、嵌入的圖片，會以符號原樣顯示。</dd>
-<dt>轉讓或淘汰裝置前</dt><dd>在「設定」中點「刪除連線」，即可從裝置清除 API 金鑰、留言草稿與未確認傳送的記錄。</dd>
+<dt>轉讓或淘汰裝置前</dt><dd>在「設定」中點「刪除連線」，即可從裝置清除 API 金鑰、留言草稿、未確認傳送的記錄、專案篩選與開啟過的任務的記錄。</dd>
 </dl>
 <h2 id="unsupported">不支援的項目</h2>
 <p>以下環境也許能運作，但未經確認。</p>

diff --git a/fr/privacy.html b/fr/privacy.html
@@ -11,7 +11,7 @@
 <nav class="langs" aria-label="Language"><a href="../privacy.html" hreflang="ja" lang="ja">日本語</a><a href="../en/privacy.html" hreflang="en" lang="en">English</a><span aria-current="true" lang="fr">Français</span><a href="../de/privacy.html" hreflang="de" lang="de">Deutsch</a><a href="../ko/privacy.html" hreflang="ko" lang="ko">한국어</a><a href="../zh-hant/privacy.html" hreflang="zh-Hant" lang="zh-Hant">繁體中文</a></nav>
 <p>Le développeur de BeatMine for Redmine (« l'application ») ne collecte aucune information vous concernant.</p>
 <h2>Informations traitées</h2>
-<p>l'application enregistre l'URL de Redmine et la clé d'API que vous saisissez, vos brouillons de commentaires et les traces servant à vérifier l'arrivée des envois, uniquement dans le stockage sécurisé de l'appareil (le trousseau iOS). La liste des tâches, leurs descriptions et pièces jointes, les mises à jour du statut des tâches et les commentaires sont échangés directement entre l'appareil et votre Redmine. Les descriptions et les images jointes sont chargées uniquement pour être affichées et ne sont pas enregistrées sur l'appareil. Le développeur n'exploite aucun serveur, et ces informations ne sont jamais transmises au développeur ni à des tiers.</p>
+<p>l'application enregistre l'URL de Redmine et la clé d'API que vous saisissez, vos brouillons de commentaires, les traces servant à vérifier l'arrivée des envois, votre filtre par projet (numéros de projet) et la trace des tâches ouvertes (numéros de tâche et dates de mise à jour), uniquement dans le stockage sécurisé de l'appareil (le trousseau iOS). La liste des tâches, leurs descriptions et pièces jointes, les mises à jour du statut des tâches et les commentaires sont échangés directement entre l'appareil et votre Redmine. Les descriptions, les images jointes et les commentaires précédents sont chargés uniquement pour être affichées et ne sont pas enregistrées sur l'appareil. Le développeur n'exploite aucun serveur, et ces informations ne sont jamais transmises au développeur ni à des tiers.</p>
 <h2>Analyse et publicité</h2>
 <p>l'application n'analyse pas l'utilisation, n'affiche pas de publicité, ne vous suit pas et ne collecte pas de rapports de plantage (sauf les informations collectées par Apple selon les réglages de l'appareil).</p>
 <h2>Suppression</h2>

diff --git a/privacy.html b/privacy.html
@@ -11,7 +11,7 @@
 <nav class="langs" aria-label="Language"><span aria-current="true" lang="ja">日本語</span><a href="en/privacy.html" hreflang="en" lang="en">English</a><a href="fr/privacy.html" hreflang="fr" lang="fr">Français</a><a href="de/privacy.html" hreflang="de" lang="de">Deutsch</a><a href="ko/privacy.html" hreflang="ko" lang="ko">한국어</a><a href="zh-hant/privacy.html" hreflang="zh-Hant" lang="zh-Hant">繁體中文</a></nav>
 <p>BeatMine for Redmine（以下「本アプリ」）は、利用者の情報を開発者が集めることはありません。</p>
 <h2>扱う情報</h2>
-<p>本アプリは、利用者が入力したRedmineのURLとAPIキー、コメントの下書き、送信結果を確かめるための記録を、端末の安全な保存領域（iOSのキーチェーン）にだけ保存します。タスクの一覧・説明・添付ファイル・完了・コメントは、端末から利用者のRedmineへ直接送受信します。タスクの説明と添付の画像は、表示するために読み込むだけで、端末に保存しません。開発者のサーバーはなく、これらの情報を開発者や第三者に送ることはありません。</p>
+<p>本アプリは、利用者が入力したRedmineのURLとAPIキー、コメントの下書き、送信結果を確かめるための記録、プロジェクトの絞り込みの選択（プロジェクトの番号）、前に開いたタスクの記録（タスクの番号と更新日時）を、端末の安全な保存領域（iOSのキーチェーン）にだけ保存します。タスクの一覧・説明・添付ファイル・完了・コメントは、端末から利用者のRedmineへ直接送受信します。タスクの説明、添付の画像、これまでのコメントは、表示するために読み込むだけで、端末に保存しません。開発者のサーバーはなく、これらの情報を開発者や第三者に送ることはありません。</p>
 <h2>分析・広告</h2>
 <p>利用状況の分析、広告、追跡、クラッシュ情報の収集は行いません（Appleが端末の設定に従って集める情報を除く）。</p>
 <h2>消去</h2>

diff --git a/de/privacy.html b/de/privacy.html
@@ -11,7 +11,7 @@
 <nav class="langs" aria-label="Language"><a href="../privacy.html" hreflang="ja" lang="ja">日本語</a><a href="../en/privacy.html" hreflang="en" lang="en">English</a><a href="../fr/privacy.html" hreflang="fr" lang="fr">Français</a><span aria-current="true" lang="de">Deutsch</span><a href="../ko/privacy.html" hreflang="ko" lang="ko">한국어</a><a href="../zh-hant/privacy.html" hreflang="zh-Hant" lang="zh-Hant">繁體中文</a></nav>
 <p>Der Entwickler von BeatMine for Redmine („die App“) erhebt keine Daten über Sie.</p>
 <h2>Verarbeitete Daten</h2>
-<p>Die App speichert die von Ihnen eingegebene Redmine-URL und den API-Schlüssel, Ihre Kommentarentwürfe und Aufzeichnungen zur Prüfung, ob Vorgänge angekommen sind, ausschließlich im sicheren Speicher des Geräts (iOS-Schlüsselbund). Aufgabenliste, Beschreibungen und Anhänge der Aufgaben, Erledigungen und Kommentare werden direkt zwischen Gerät und Ihrem Redmine übertragen. Beschreibungen und angehängte Bilder werden nur zur Anzeige geladen und nicht auf dem Gerät gespeichert. Der Entwickler betreibt keinen Server, und diese Daten werden weder an den Entwickler noch an Dritte übermittelt.</p>
+<p>Die App speichert die von Ihnen eingegebene Redmine-URL und den API-Schlüssel, Ihre Kommentarentwürfe, Aufzeichnungen zur Prüfung, ob Vorgänge angekommen sind, Ihren Projektfilter (Projektnummern) und eine Aufzeichnung geöffneter Aufgaben (Aufgabennummern und Aktualisierungszeiten) ausschließlich im sicheren Speicher des Geräts (iOS-Schlüsselbund). Aufgabenliste, Beschreibungen und Anhänge der Aufgaben, Erledigungen und Kommentare werden direkt zwischen Gerät und Ihrem Redmine übertragen. Beschreibungen, angehängte Bilder und frühere Kommentare werden nur zur Anzeige geladen und nicht auf dem Gerät gespeichert. Der Entwickler betreibt keinen Server, und diese Daten werden weder an den Entwickler noch an Dritte übermittelt.</p>
 <h2>Analyse und Werbung</h2>
 <p>Die App analysiert keine Nutzung, zeigt keine Werbung, verfolgt Sie nicht und erfasst keine Absturzberichte (ausgenommen Daten, die Apple gemäß den Geräteeinstellungen erhebt).</p>
 <h2>Löschen</h2>

diff --git a/ko/privacy.html b/ko/privacy.html
@@ -11,7 +11,7 @@
 <nav class="langs" aria-label="Language"><a href="../privacy.html" hreflang="ja" lang="ja">日本語</a><a href="../en/privacy.html" hreflang="en" lang="en">English</a><a href="../fr/privacy.html" hreflang="fr" lang="fr">Français</a><a href="../de/privacy.html" hreflang="de" lang="de">Deutsch</a><span aria-current="true" lang="ko">한국어</span><a href="../zh-hant/privacy.html" hreflang="zh-Hant" lang="zh-Hant">繁體中文</a></nav>
 <p>BeatMine for Redmine(이하 ‘본 앱’)의 개발자는 이용자의 정보를 수집하지 않습니다.</p>
 <h2>다루는 정보</h2>
-<p>본 앱은 이용자가 입력한 Redmine URL과 API 키, 댓글 임시 저장본, 전송 결과를 확인하기 위한 기록을 기기의 안전한 저장 영역(iOS 키체인)에만 저장합니다. 작업 목록·설명·첨부 파일·완료·댓글은 기기와 이용자의 Redmine 사이에서 직접 주고받습니다. 작업의 설명과 첨부된 이미지는 표시하기 위해 불러올 뿐, 기기에 저장하지 않습니다. 개발자는 서버를 운영하지 않으며, 이 정보를 개발자나 제3자에게 보내지 않습니다.</p>
+<p>본 앱은 이용자가 입력한 Redmine URL과 API 키, 댓글 임시 저장본, 전송 결과를 확인하기 위한 기록, 프로젝트 필터의 선택(프로젝트 번호), 이전에 연 작업의 기록(작업 번호와 업데이트 일시)을 기기의 안전한 저장 영역(iOS 키체인)에만 저장합니다. 작업 목록·설명·첨부 파일·완료·댓글은 기기와 이용자의 Redmine 사이에서 직접 주고받습니다. 작업의 설명, 첨부된 이미지, 이전 댓글은 표시하기 위해 불러올 뿐, 기기에 저장하지 않습니다. 개발자는 서버를 운영하지 않으며, 이 정보를 개발자나 제3자에게 보내지 않습니다.</p>
 <h2>분석·광고</h2>
 <p>이용 현황 분석, 광고, 추적, 크래시(비정상 종료) 정보 수집을 하지 않습니다(Apple이 기기 설정에 따라 수집하는 정보는 제외).</p>
 <h2>삭제</h2>

diff --git a/en/privacy.html b/en/privacy.html
@@ -11,7 +11,7 @@
 <nav class="langs" aria-label="Language"><a href="../privacy.html" hreflang="ja" lang="ja">日本語</a><span aria-current="true" lang="en">English</span><a href="../fr/privacy.html" hreflang="fr" lang="fr">Français</a><a href="../de/privacy.html" hreflang="de" lang="de">Deutsch</a><a href="../ko/privacy.html" hreflang="ko" lang="ko">한국어</a><a href="../zh-hant/privacy.html" hreflang="zh-Hant" lang="zh-Hant">繁體中文</a></nav>
 <p>The developer of BeatMine for Redmine (“the app”) does not collect any information about you.</p>
 <h2>Information the app handles</h2>
-<p>The app stores the Redmine URL and API key you enter, your comment drafts, and records used to check whether updates arrived. These are stored only in the device's secure storage (the iOS Keychain). Your task list, task descriptions, attachments, completions and comments are sent and received directly between the device and your Redmine. Task descriptions and attached images are loaded only to display them and are not stored on the device. The developer runs no server, and this information is never sent to the developer or any third party.</p>
+<p>The app stores the Redmine URL and API key you enter, your comment drafts, records used to check whether updates arrived, your project filter (project numbers) and a record of tasks you opened (task numbers and update times). These are stored only in the device's secure storage (the iOS Keychain). Your task list, task descriptions, attachments, completions and comments are sent and received directly between the device and your Redmine. Task descriptions, attached images and earlier comments are loaded only to display them and are not stored on the device. The developer runs no server, and this information is never sent to the developer or any third party.</p>
 <h2>Analytics and advertising</h2>
 <p>The app does not analyze usage, show ads, track you or collect crash reports (except information Apple collects according to your device settings).</p>
 <h2>Deletion</h2>

diff --git a/zh-hant/privacy.html b/zh-hant/privacy.html
@@ -11,7 +11,7 @@
 <nav class="langs" aria-label="Language"><a href="../privacy.html" hreflang="ja" lang="ja">日本語</a><a href="../en/privacy.html" hreflang="en" lang="en">English</a><a href="../fr/privacy.html" hreflang="fr" lang="fr">Français</a><a href="../de/privacy.html" hreflang="de" lang="de">Deutsch</a><a href="../ko/privacy.html" hreflang="ko" lang="ko">한국어</a><span aria-current="true" lang="zh-Hant">繁體中文</span></nav>
 <p>BeatMine for Redmine（以下稱「本 App」）的開發者不會收集使用者的資訊。</p>
 <h2>處理的資訊</h2>
-<p>本 App 只將使用者輸入的 Redmine URL 與 API 金鑰、留言草稿，以及用來確認傳送結果的記錄，儲存在裝置的安全儲存區（iOS 鑰匙圈）。任務清單、描述、附件、完成與留言，都是在裝置與使用者的 Redmine 之間直接傳送與接收。任務的描述與附件中的圖片只會為了顯示而載入，不會儲存在裝置中。開發者不設置任何伺服器，這些資訊也不會傳送給開發者或任何第三方。</p>
+<p>本 App 只將使用者輸入的 Redmine URL 與 API 金鑰、留言草稿、用來確認傳送結果的記錄、專案篩選的選擇（專案編號），以及開啟過的任務的記錄（任務編號與更新時間），儲存在裝置的安全儲存區（iOS 鑰匙圈）。任務清單、描述、附件、完成與留言，都是在裝置與使用者的 Redmine 之間直接傳送與接收。任務的描述、附件中的圖片與之前的留言只會為了顯示而載入，不會儲存在裝置中。開發者不設置任何伺服器，這些資訊也不會傳送給開發者或任何第三方。</p>
 <h2>分析與廣告</h2>
 <p>不進行使用情況分析、廣告、追蹤或當機資訊收集（Apple 依裝置設定收集的資訊除外）。</p>
 <h2>刪除</h2>
